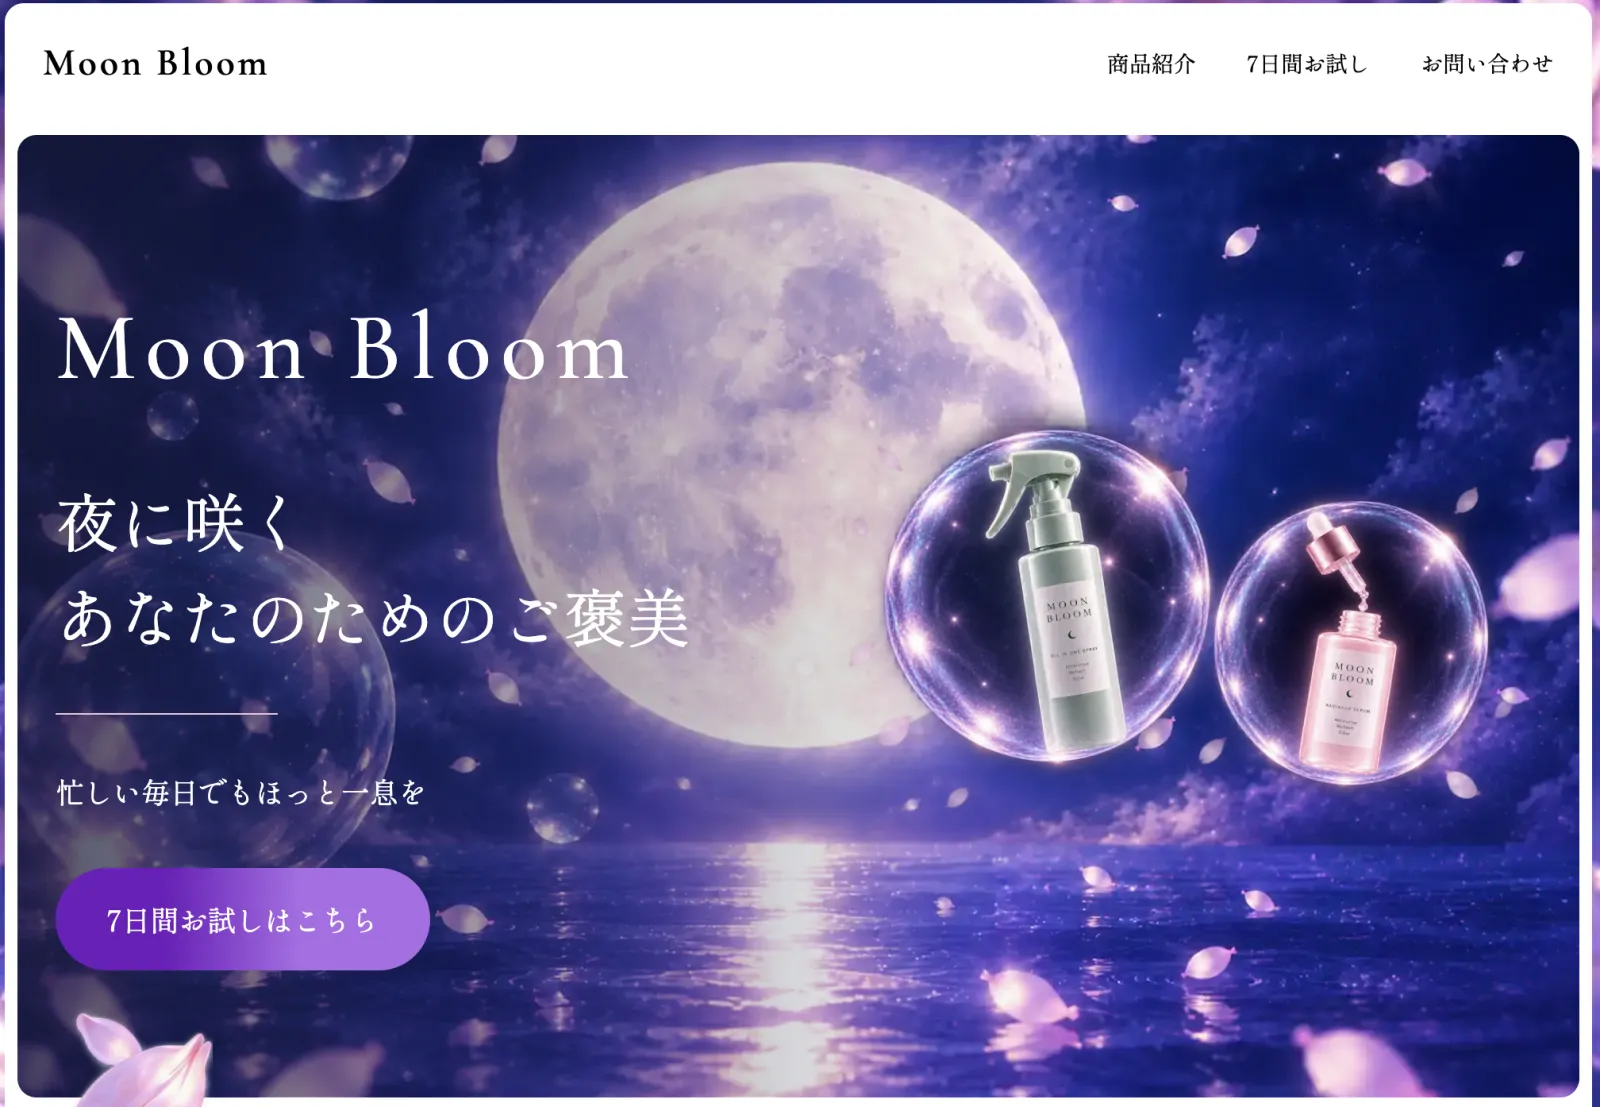
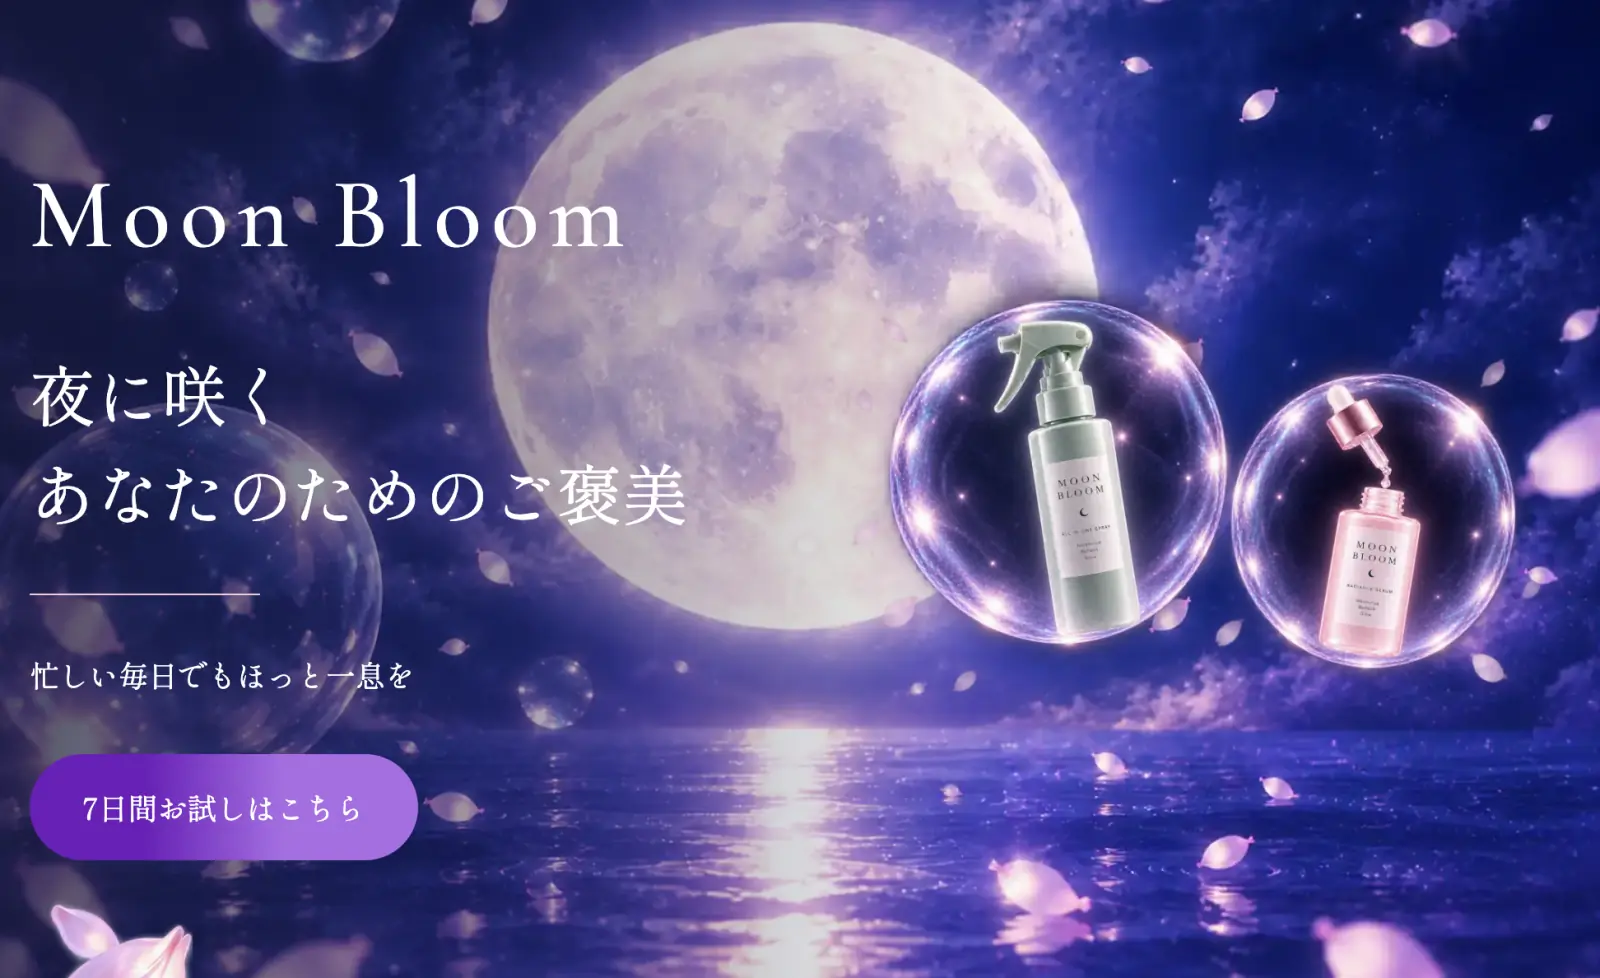
Moon Bloomの作品画像を、余白のない画像に入れかえた

diff --git a/docs/work-moon-bloom.html b/docs/work-moon-bloom.html
@@ -162,7 +162,7 @@
 
                     <!-- 左の列：メイン画像（PCで見た最初の画面） -->
                     <img class="detail__mv" src="images/works/moon-bloom/mv.webp"
-                        alt="Moon Bloom のLPの最初の画面。月と夜桜の背景に、シャボン玉に入った2つの商品" width="1600" height="1107">
+                        alt="Moon Bloom のLPの最初の画面。月と夜桜の背景に、シャボン玉に入った2つの商品" width="1600" height="978">
                 </div>
 
                 <!-- 本文エリア：左に目次、右に本文 -->
@@ -235,7 +235,7 @@
                                     <li>スマホ・PCそれぞれで見やすいよう、レイアウトを調整しました</li>
                                 </ul>
                                 <img class="detail__img detail__img--sp" src="images/works/moon-bloom/sp.webp"
-                                    alt="Moon Bloom のLPをスマホで見た最初の画面" width="750" height="1455" loading="lazy">
+                                    alt="Moon Bloom のLPをスマホで見た最初の画面" width="700" height="1240" loading="lazy">
                             </div>
                         </section>
 
